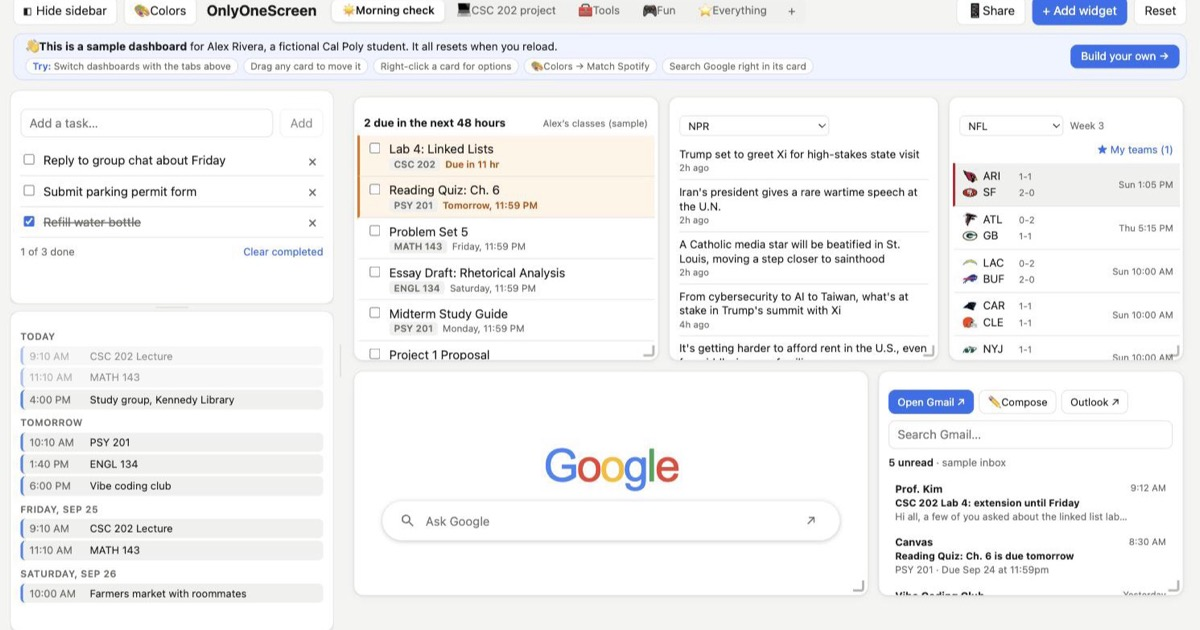
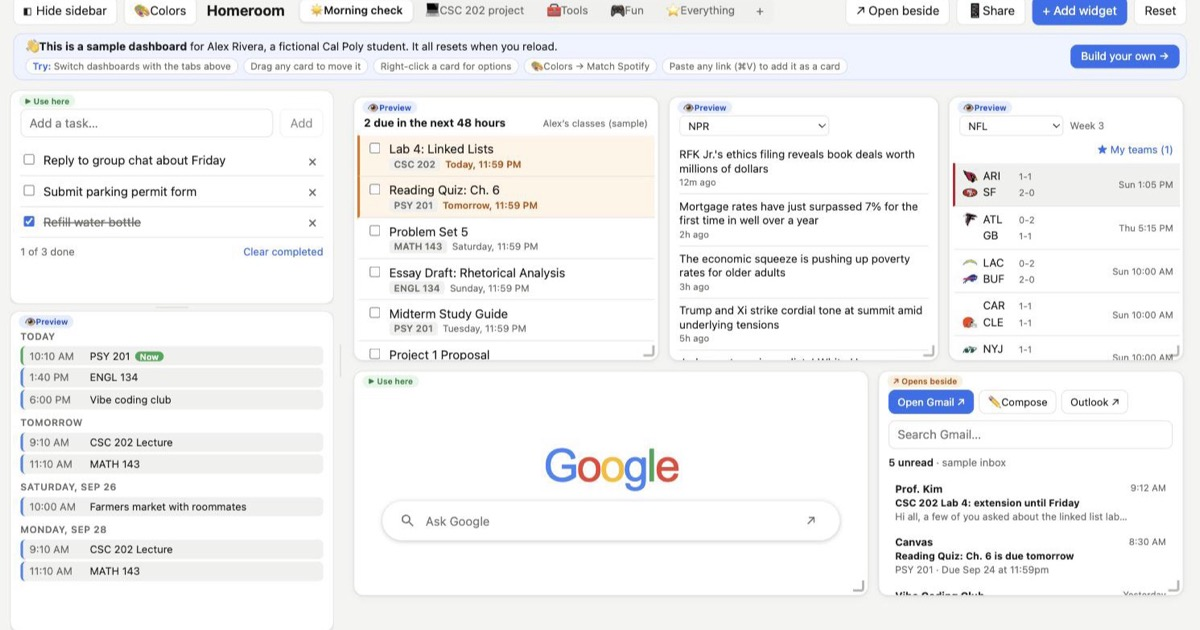
Rename to Homeroom

diff --git a/index.html b/index.html
@@ -4,15 +4,15 @@
     <meta charset="UTF-8" />
     <link rel="icon" type="image/svg+xml" href="/favicon.svg" />
     <meta name="viewport" content="width=device-width, initial-scale=1.0" />
-    <title>OnlyOneScreen</title>
-    <meta name="description" content="Canvas, calendar, Spotify, Google, Claude and more on one customizable screen. Free, no login." />
+    <title>Homeroom</title>
+    <meta name="description" content="Canvas, your calendar, music, Google, Claude and more on one screen you set up your way. Free, no login." />
 
     <!-- Link preview when the URL is shared (Slack, iMessage, Discord...) -->
     <meta property="og:type" content="website" />
-    <meta property="og:url" content="https://onlyonescreen.vercel.app" />
-    <meta property="og:title" content="OnlyOneScreen: everything a student needs on one screen" />
-    <meta property="og:description" content="Canvas, calendar, Spotify, Google, Claude and more on one customizable screen. Free, no login." />
-    <meta property="og:image" content="https://onlyonescreen.vercel.app/preview.jpg" />
+    <meta property="og:url" content="https://myhomeroom.vercel.app" />
+    <meta property="og:title" content="Homeroom: where your school day starts" />
+    <meta property="og:description" content="Canvas, your calendar, music, Google, Claude and more on one screen you set up your way. Free, no login." />
+    <meta property="og:image" content="https://myhomeroom.vercel.app/preview.jpg" />
     <meta name="twitter:card" content="summary_large_image" />
 
     <!-- Start connecting early to sites the first dashboards load from -->

diff --git a/src/Dashboard.jsx b/src/Dashboard.jsx
@@ -193,7 +193,7 @@ export default function Dashboard({ layoutKey, tabs, hasOwn, onBuildOwn, onViewE
       root.classList.remove('link-dragging')
       if (!isLinkDrag(event.dataTransfer)) return
       event.preventDefault()
-      if (event.onlyonescreenHandled) return
+      if (event.homeroomHandled) return
       const link = droppedLink(event.dataTransfer)
       if (link) dropLinkRef.current(link, null)
     }
@@ -434,7 +434,7 @@ export default function Dashboard({ layoutKey, tabs, hasOwn, onBuildOwn, onViewE
               🎨 Colors
             </button>
           )}
-          <h1>OnlyOneScreen</h1>
+          <h1>Homeroom</h1>
           {tabs}
         </div>
         <div className="toolbar-actions">

diff --git a/src/Sidebar.jsx b/src/Sidebar.jsx
@@ -24,7 +24,7 @@ export default function Sidebar({ widgets, sizes, onSizesChange, onReorder, rend
     onDragStart: (event) => {
       event.dataTransfer.effectAllowed = 'move'
       event.dataTransfer.setData('text/plain', id)
-      event.dataTransfer.setData('application/x-onlyonescreen-card', id)
+      event.dataTransfer.setData('application/x-homeroom-card', id)
       const card = event.currentTarget.closest('.card')
       const rect = card.getBoundingClientRect()
       event.dataTransfer.setDragImage(card, event.clientX - rect.left, event.clientY - rect.top)

diff --git a/src/ShareDialog.jsx b/src/ShareDialog.jsx
@@ -31,7 +31,7 @@ export default function ShareDialog({ onClose }) {
 
   return createPortal(
     <div className="share-layer" onClick={(event) => event.target === event.currentTarget && onClose()}>
-      <div className="share-card" role="dialog" aria-label="Share OnlyOneScreen">
+      <div className="share-card" role="dialog" aria-label="Share Homeroom">
         <p className="share-kicker">Try it yourself</p>
         {qr && <img className="share-qr" src={qr} alt={`QR code for ${url}`} />}
         <p className="share-url">{url.replace(/^https?:\/\//, '')}</p>

diff --git a/src/lib/drag.js b/src/lib/drag.js
@@ -4,7 +4,7 @@ export const NOT_DRAGGABLE =
   'input, textarea, select, button, a, label, iframe, [contenteditable], .react-resizable-handle, .no-drag'
 
 // Our own sidebar card drags carry this type; links from other tabs don't.
-const CARD_TYPE = 'application/x-onlyonescreen-card'
+const CARD_TYPE = 'application/x-homeroom-card'
 
 export function isLinkDrag(dataTransfer) {
   const types = [...(dataTransfer?.types ?? [])]

diff --git a/src/Workspace.jsx b/src/Workspace.jsx
@@ -70,7 +70,7 @@ export default function Workspace({ widgets, grid, onGridChange, onAddWidget, on
       const link = droppedLink(event.dataTransfer)
       if (!link) return
       event.preventDefault()
-      event.nativeEvent.onlyonescreenHandled = true
+      event.nativeEvent.homeroomHandled = true
       onDropLink(link, stacked ? null : cellAt(event))
     },
   }

diff --git a/src/lib/openExternal.js b/src/lib/openExternal.js
@@ -10,7 +10,7 @@ import { showToast } from './toast.js'
 // People can switch to plain new tabs instead.
 
 const MODE_KEY = 'dashboard:openMode'
-const SIDE_WINDOW = 'onlyonescreen-side'
+const SIDE_WINDOW = 'homeroom-side'
 
 let mode = readJSON(MODE_KEY, 'side') === 'tab' ? 'tab' : 'side'
 const listeners = new Set()

diff --git a/PROJECT.md b/PROJECT.md
@@ -1,4 +1,4 @@
-# Dashboard: everything you need on one screen
+# Homeroom: where your school day starts
 
 A full-screen, customizable dashboard for students, like phone home-screen widgets but as a
 website. Users add widgets, drag them around, resize them, and the layout is still there the
@@ -20,7 +20,7 @@ terms. When something breaks, tell me what to paste back to you.
 - Layout, widget list and widget settings saved in `localStorage`, so each visitor gets
   their own dashboard
 - Vercel Functions in a top-level `api/` folder for anything that needs a server (Canvas)
-- Deployed on Vercel from a GitHub repo, so every push redeploys. Live at https://onlyonescreen.vercel.app (the app is named OnlyOneScreen)
+- Deployed on Vercel from a GitHub repo, so every push redeploys. Live at https://myhomeroom.vercel.app (the app is named Homeroom; https://onlyonescreen.vercel.app also still works)
 
 ## Important constraint
 
